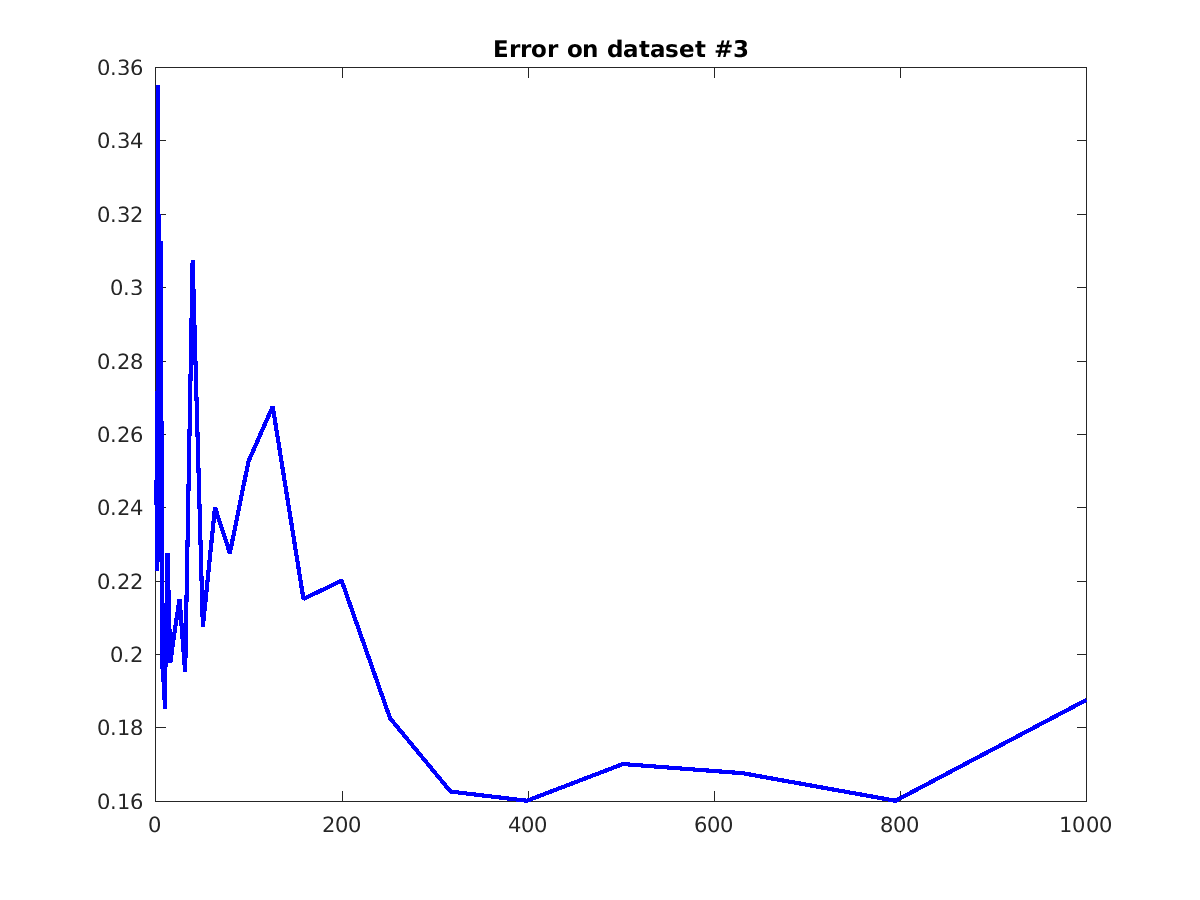
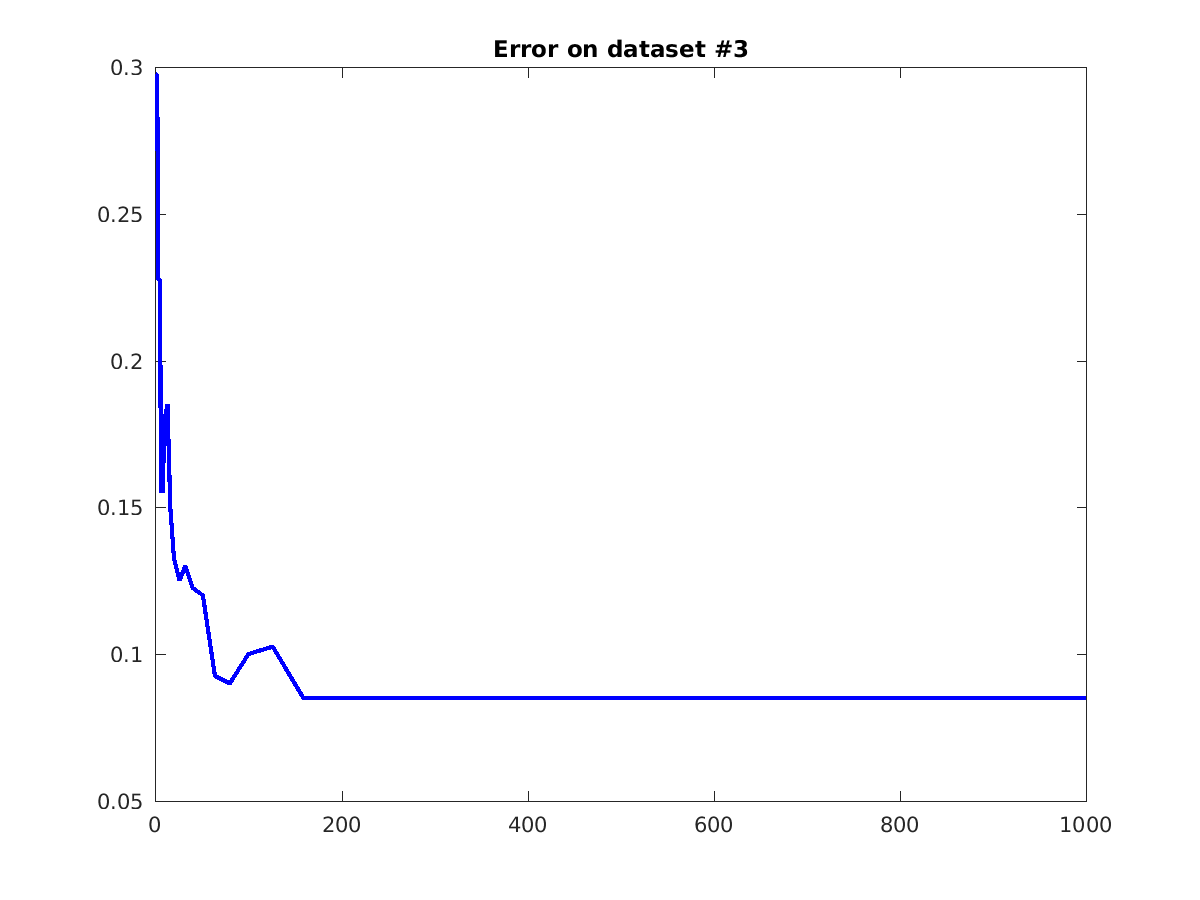
choose optimal weak feature in adaboost

diff --git a/ex8/HaarFeatures.m b/ex8/HaarFeatures.m
@@ -1,13 +1,68 @@
 classdef HaarFeatures < handle
     properties
-        featurePos
+        r
+        c
+        winWidth
+        winHeight
         featureType
-        featureAttr
+        features
+        posMean
+        posStd
+        posMax
+        posMin
+        R
+        alpha
+        error
+        falseNegativeError
+        falsePositiveError
+        windowSize
     end
     methods
         function obj = HaarFeatures(attrs)
+            obj.r = attrs(1, :);
+            obj.c = attrs(2, :);
+            obj.winWidth = attrs(3, :);
+            obj.winHeight = attrs(4, :);
+            obj.featureType = attrs(5, :);
+            
+            obj.posMean = attrs(6, :);
+            obj.posStd = attrs(7, :);
+            obj.posMax = attrs(8, :);
+            obj.posMin = attrs(9, :);
+            
+            obj.R = attrs(10, :);
+            obj.alpha = attrs(11, :);
+            obj.error = attrs(12, :);
+            obj.falseNegativeError = attrs(13, :);
+            obj.falsePositiveError = attrs(14, :);
+            
+            obj.features = {@feature1, @feature2, @feature3, @feature4, @feature5} 
+            obj.windowSize = 19
         end
-        function compute()
+        function response = classify(obj, img)
+            img = integral_image(img);
+            response = zeros(size(img) - obj.windowSize);
+            for r = 1:size(img, 1) - obj.windowSize
+                for c = 1:size(img, 2) - obj.windowSize
+                    patch = img(r:r+obj.windowSize-1, c:c+obj.windowSize-1);
+                    response(r, c) = obj.classifyPatch(patch);
+                end
+            end
+        end
+        function f = classifyPatch(obj, patch)
+            
+            f = 0;
+            for n = 2:numel(obj.r)
+                minT = (obj.posMean(n) - abs(obj.posMean(n) - obj.posMin(n))) * (obj.R(n) - 5) / 50;
+                maxT = (obj.posMean(n) + abs(obj.posMax(n) - obj.posMean(n))) * (obj.R(n) - 5) / 50;
+                t = obj.extractFeature(patch, n);
+                t = (minT <= t) && (t <= maxT);
+                f = f + obj.alpha(n) * t;
+            end
+        end
+        function f = extractFeature(obj, img, n)
+            feature = obj.features{obj.featureType(n)};
+            f = feature(img, obj.r(n), obj.c(n), obj.winWidth(n), obj.winHeight(n));
         end
     end
 end

diff --git a/ex8/WeakClassifier.m b/ex8/WeakClassifier.m
@@ -2,23 +2,53 @@ classdef WeakClassifier < handle
     properties
         dimension
         threshold
+        compare
     end
     methods
         function error = train(obj, samples, labels, weights)
             
-            sumWeights = sum(weights);
-            error = realmax;
-            while error >= 0.5 * sumWeights;
-                
-                obj.dimension = randi(2);
-                obj.threshold = rand() * max(abs(samples(:, obj.dimension)));
-                
-                classification = obj.test(samples);
-                error = sum(weights(classification ~= labels));
+            [thresholdRow, errorRow] = obj.findThreshold(samples(:, 1), labels, weights);
+            [thresholdCol, errorCol] = obj.findThreshold(samples(:, 2), labels, weights);
+            
+            if errorRow < errorCol
+                error = errorRow;
+                obj.dimension = 1;
+                obj.threshold = thresholdRow;
+            else
+                error = errorCol;
+                obj.dimension = 2;
+                obj.threshold = thresholdCol;
             end
+            
+            classification = obj.test(samples);
+            error = sum(weights(classification ~= labels));
+        end
+        function [threshold, error] = findThreshold(obj, coords, labels, weights)
+            
+            sumNeg = sum(weights(labels < 0));
+            sumPos = sum(weights) - sumNeg;
+            
+            X = [coords labels weights];
+            X = sortrows(X, 1);
+            
+            pos = cumsum(X(:, 3) .* (X(:, 2) == 1));
+            neg = cumsum(X(:, 3) .* (X(:, 2) == -1));
+            
+            e1 = pos + (sumNeg - neg);
+            e2 = neg + (sumPos - pos);
+            e = min(e1, e2);
+            index = find(e == min(e));
+            obj.compare = e1(index) < e2(index);
+            
+            threshold = X(index, 1);
+            error = e(index);
         end
         function labels = test(obj, samples)
-            labels = abs(samples(:, obj.dimension)) < obj.threshold;
+            if obj.compare
+                labels = samples(:, obj.dimension) > obj.threshold;
+            else
+                labels = samples(:, obj.dimension) < obj.threshold;
+            end
             labels = -1 + 2 * labels;
         end
     end

diff --git a/ex8/AdaboostClassifier.m b/ex8/AdaboostClassifier.m
@@ -8,22 +8,21 @@ classdef AdaboostClassifier < handle
         function obj = AdaboostClassifier(numWeakClassifiers)
             obj.weakClassifier = cell(numWeakClassifiers, 1);
             obj.alpha = zeros(numWeakClassifiers, 1);
-            obj.numTries = 10;
+            obj.numTries = 1;
         end
         function train(obj, samples, labels)
             weights = ones(size(samples, 1), 1);
-            for n = 1:numel(obj.weakClassifier)
+            for t = 1:numel(obj.weakClassifier)
                 weights = weights / sum(weights);
                
-                
-                weakClf = obj.createWeakClf(samples, labels, weights);
-                obj.weakClassifier{n} = weakClf;
+                weakClf = WeakClassifier();
+                obj.weakClassifier{t} = weakClf;
+                error = weakClf.train(samples, labels, weights);
+         
                 classification = weakClf.test(samples);
-                errors = classification ~= labels;
+                obj.alpha(t) = 0.5 * log((1-error)/error);
+                weights = weights .* exp(-obj.alpha(t) * labels .* classification); 
                 
-                e = sum(errors);
-                obj.alpha(n) = 0.5 * log((1-e)/e);
-                weights = weights .* exp(labels .* classification * obj.alpha(n)); 
             end 
             
             obj.alpha = obj.alpha / sum(obj.alpha);
@@ -35,22 +34,6 @@ classdef AdaboostClassifier < handle
                 labels = labels + obj.alpha(n) * obj.weakClassifier{n}.test(samples);
             end
             labels = -1 + 2 * (labels > 0);
-        end
-        function clf = createWeakClf(obj, samples, labels, weights)
-            
-            best_clf = WeakClassifier();
-            min_score = best_clf.train(samples, labels, weights);            
-            
-            for n = 1:obj.numTries
-               clf = WeakClassifier();
-               score = clf.train(samples, labels, weights);
-               if score < min_score
-                   min_score = score;
-                   best_clf = clf;
-               end
-            end
-            
-            clf = best_clf;
         end
     end
 end

diff --git a/ex8/integral_image.m b/ex8/integral_image.m
@@ -1,0 +1,25 @@
+function I = integral_image(img)
+   
+    Y = size(img, 1);
+    X = size(img, 2);
+
+
+    I = zeros(size(img));
+    I(1, 1, :) = img(1, 1, :);
+
+    for y = 2:Y
+        I(y, 1, :) = I(y-1, 1, :) + img(y, 1, :);
+    end
+
+    for x = 2:X
+        I(1, y, :) = I(1, x-1, :) + img(1, x, :);
+    end
+
+    for y = 2:Y
+        y_sum = img(y, 1, :);
+        for x = 2:X
+            y_sum = y_sum + img(y, x, :);
+            I(y, x, :) = y_sum + I(y-1, x, :);
+        end
+    end
+end

diff --git a/ex8/feature5.m b/ex8/feature5.m
@@ -1,0 +1,6 @@
+function f = feature5(img, r, c, width, height)
+    f = response(img, r, c, width/2 -1, height/2 -1)...
+        - response(img, r, c +width/2, width/2 -1, height/2 -1)...
+        + response(img, r+height/2, c, width/2 -1, height/2 -1)...
+        - response(img, r+height/2, c+width/2, width/2-1, height/2-1);
+end

diff --git a/ex8/feature3.m b/ex8/feature3.m
@@ -1,0 +1,5 @@
+function f = feature3(img, r, c, width, height)
+    f = response(img, r, c, width/3 - 1, height-1)...
+        - response(img, r, c + width/3, width/3 - 1, height-1)...
+        + response(img, r, c + 2 * width/3, width/3 - 1, height - 1);
+end

diff --git a/ex8/feature4.m b/ex8/feature4.m
@@ -1,0 +1,5 @@
+function f = feature4(img, r, c, width, height)
+    f = response(img, r, c, width-1, height/3 -1)...
+        - response(img, r + height/3, c, width-1, height/3 - 1)...
+        + response(img, r + 2 *height/3, c, width-1, height/3 -1);
+end

diff --git a/ex8/ex81.m b/ex8/ex81.m
@@ -1,6 +1,7 @@
 close all; clear all; clc;
 
 sample_points = [1:9 ceil(logspace(1, 3, 21))];
+
 for n = 1:3
     filename = sprintf('data/data%d.mat', n);
     outputname = sprintf('data/output_%d.png', n);

diff --git a/ex8/ex82.m b/ex8/ex82.m
@@ -1,0 +1,9 @@
+
+
+load('data/Classifiers.mat')
+faceDetector = HaarFeatures(classifiers);
+
+img = rgb2gray(imread('data/faceA.jpg'));
+imshow(img)
+
+response = faceDetector.classify(img)

diff --git a/ex8/feature1.m b/ex8/feature1.m
@@ -1,0 +1,4 @@
+function f = feature1(img, r, c, width, height)
+    f = response(img, r, c, width/2 - 1, height - 1);
+    f = f + response(img, r, c+width/2, width/2 - 1, height-1);
+end

diff --git a/ex8/feature2.m b/ex8/feature2.m
@@ -1,0 +1,4 @@
+function f = feature2(img, x, y, width, height)
+    f = response(img, r, c, width-1, height/2 - 1) ...
+        + response(img, r+height/2, c, width-1, height/2 - 1);
+end

diff --git a/ex8/response.m b/ex8/response.m
@@ -1,0 +1,3 @@
+function f = response(img, r, c, width, height)
+    f = img(r+height, c+width) + img(r, c) - img(r+height, c) - img(r, c+width);
+end
